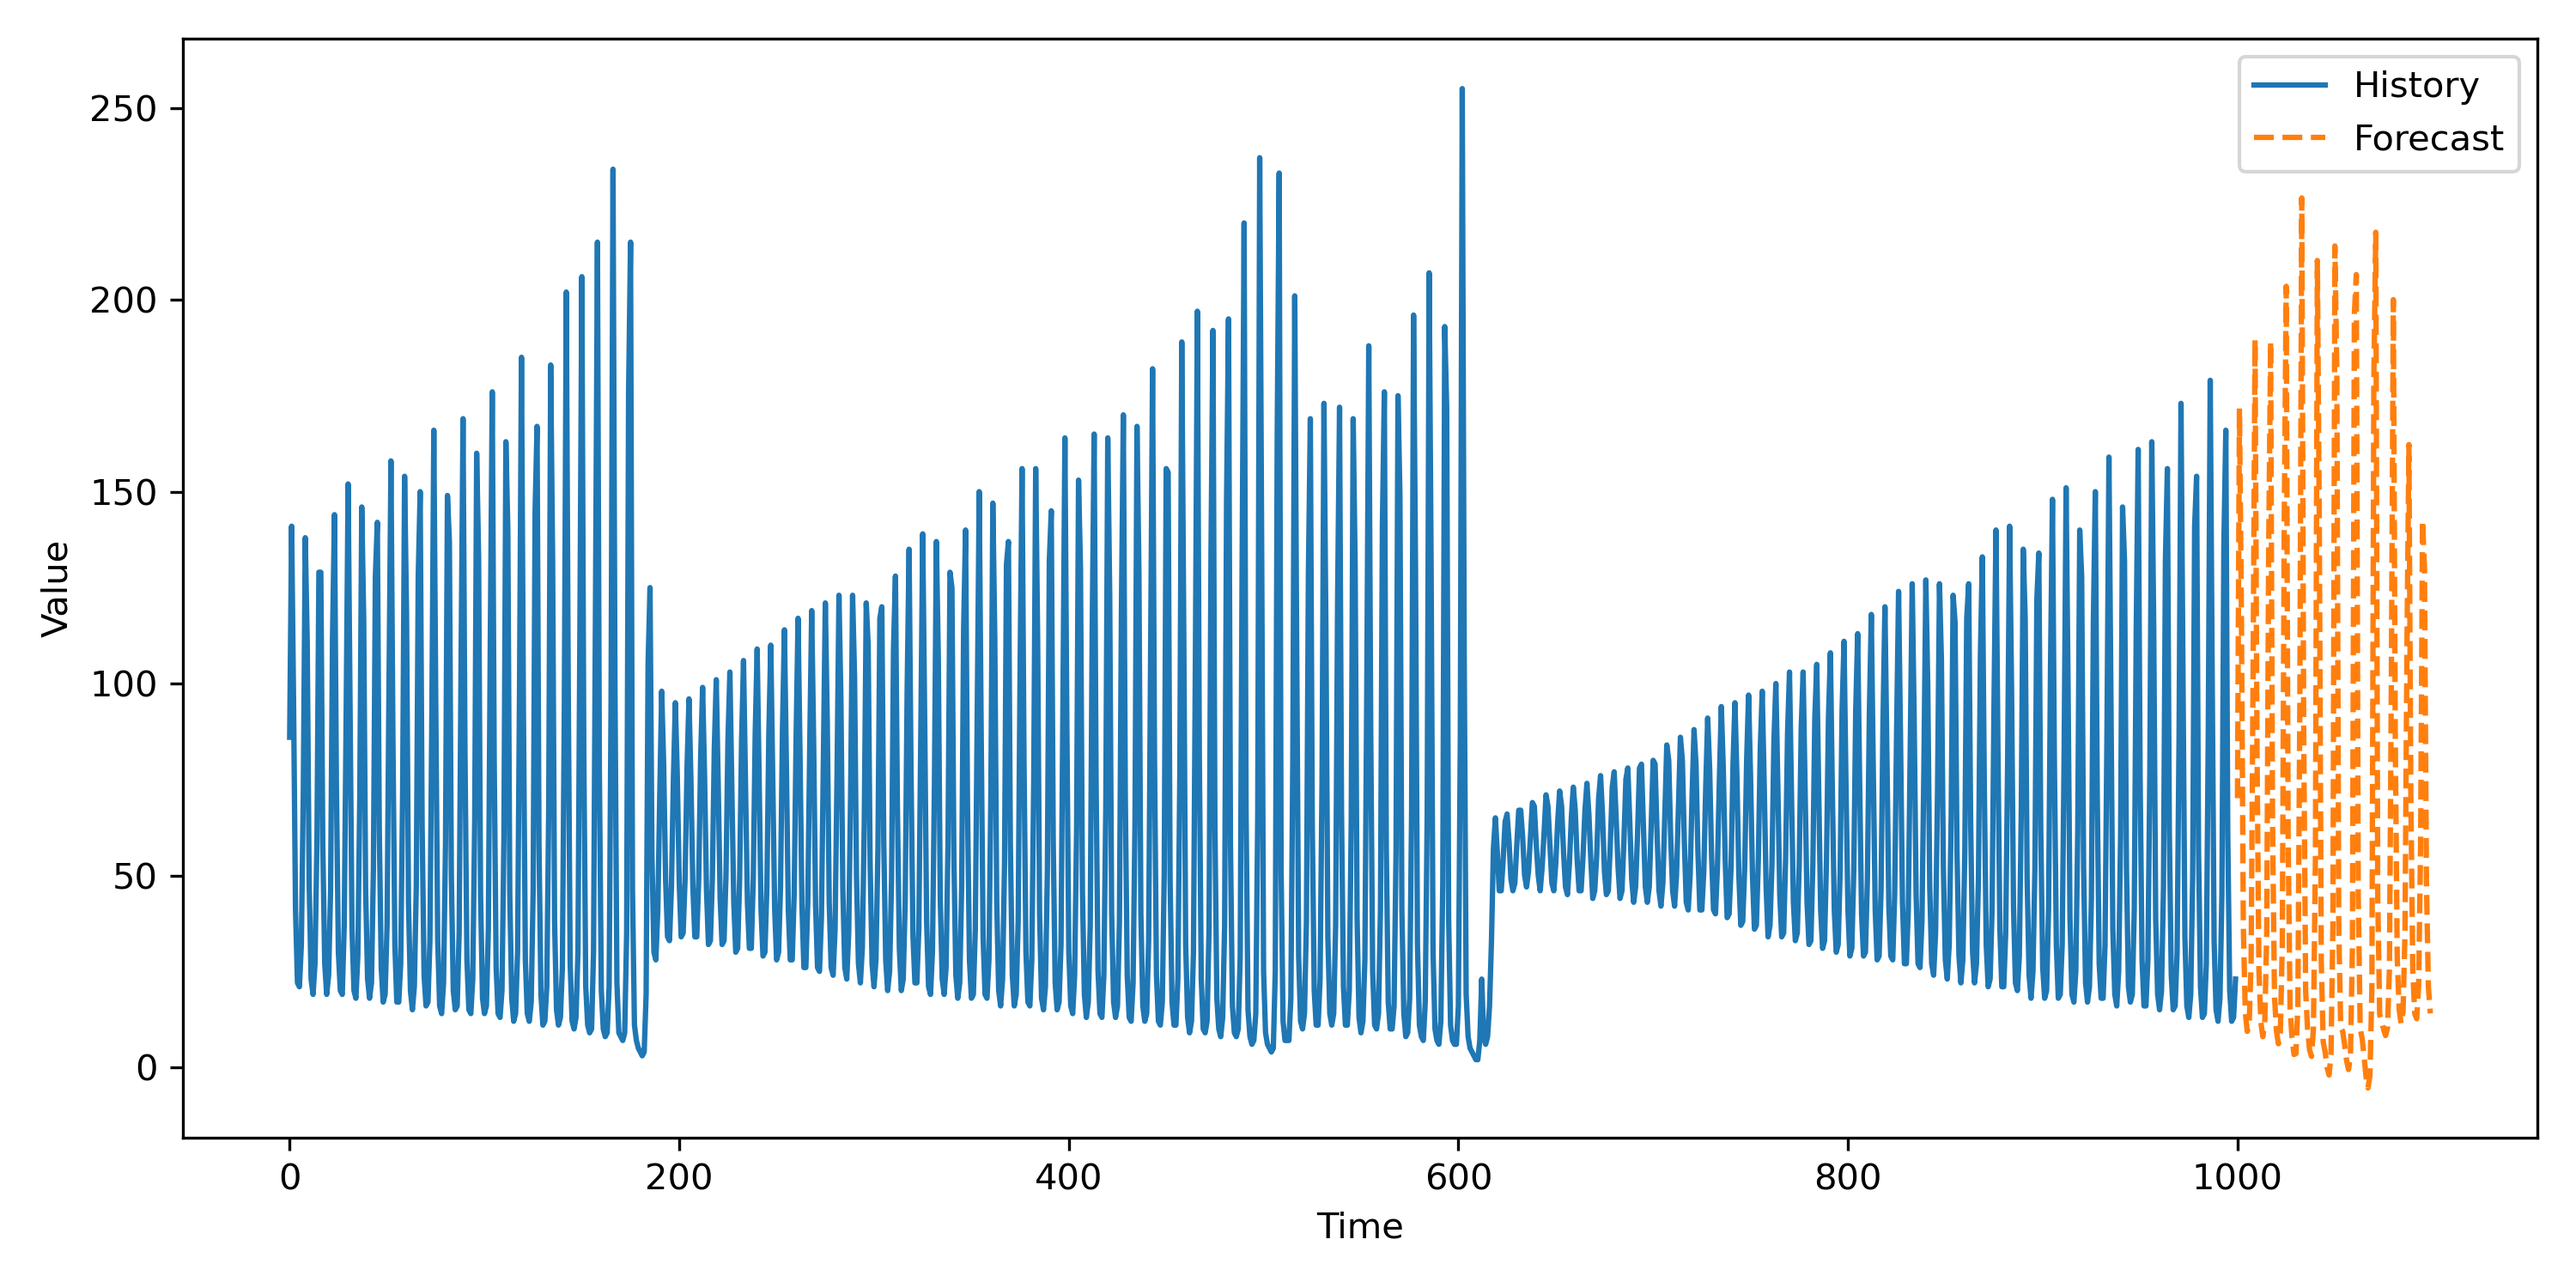
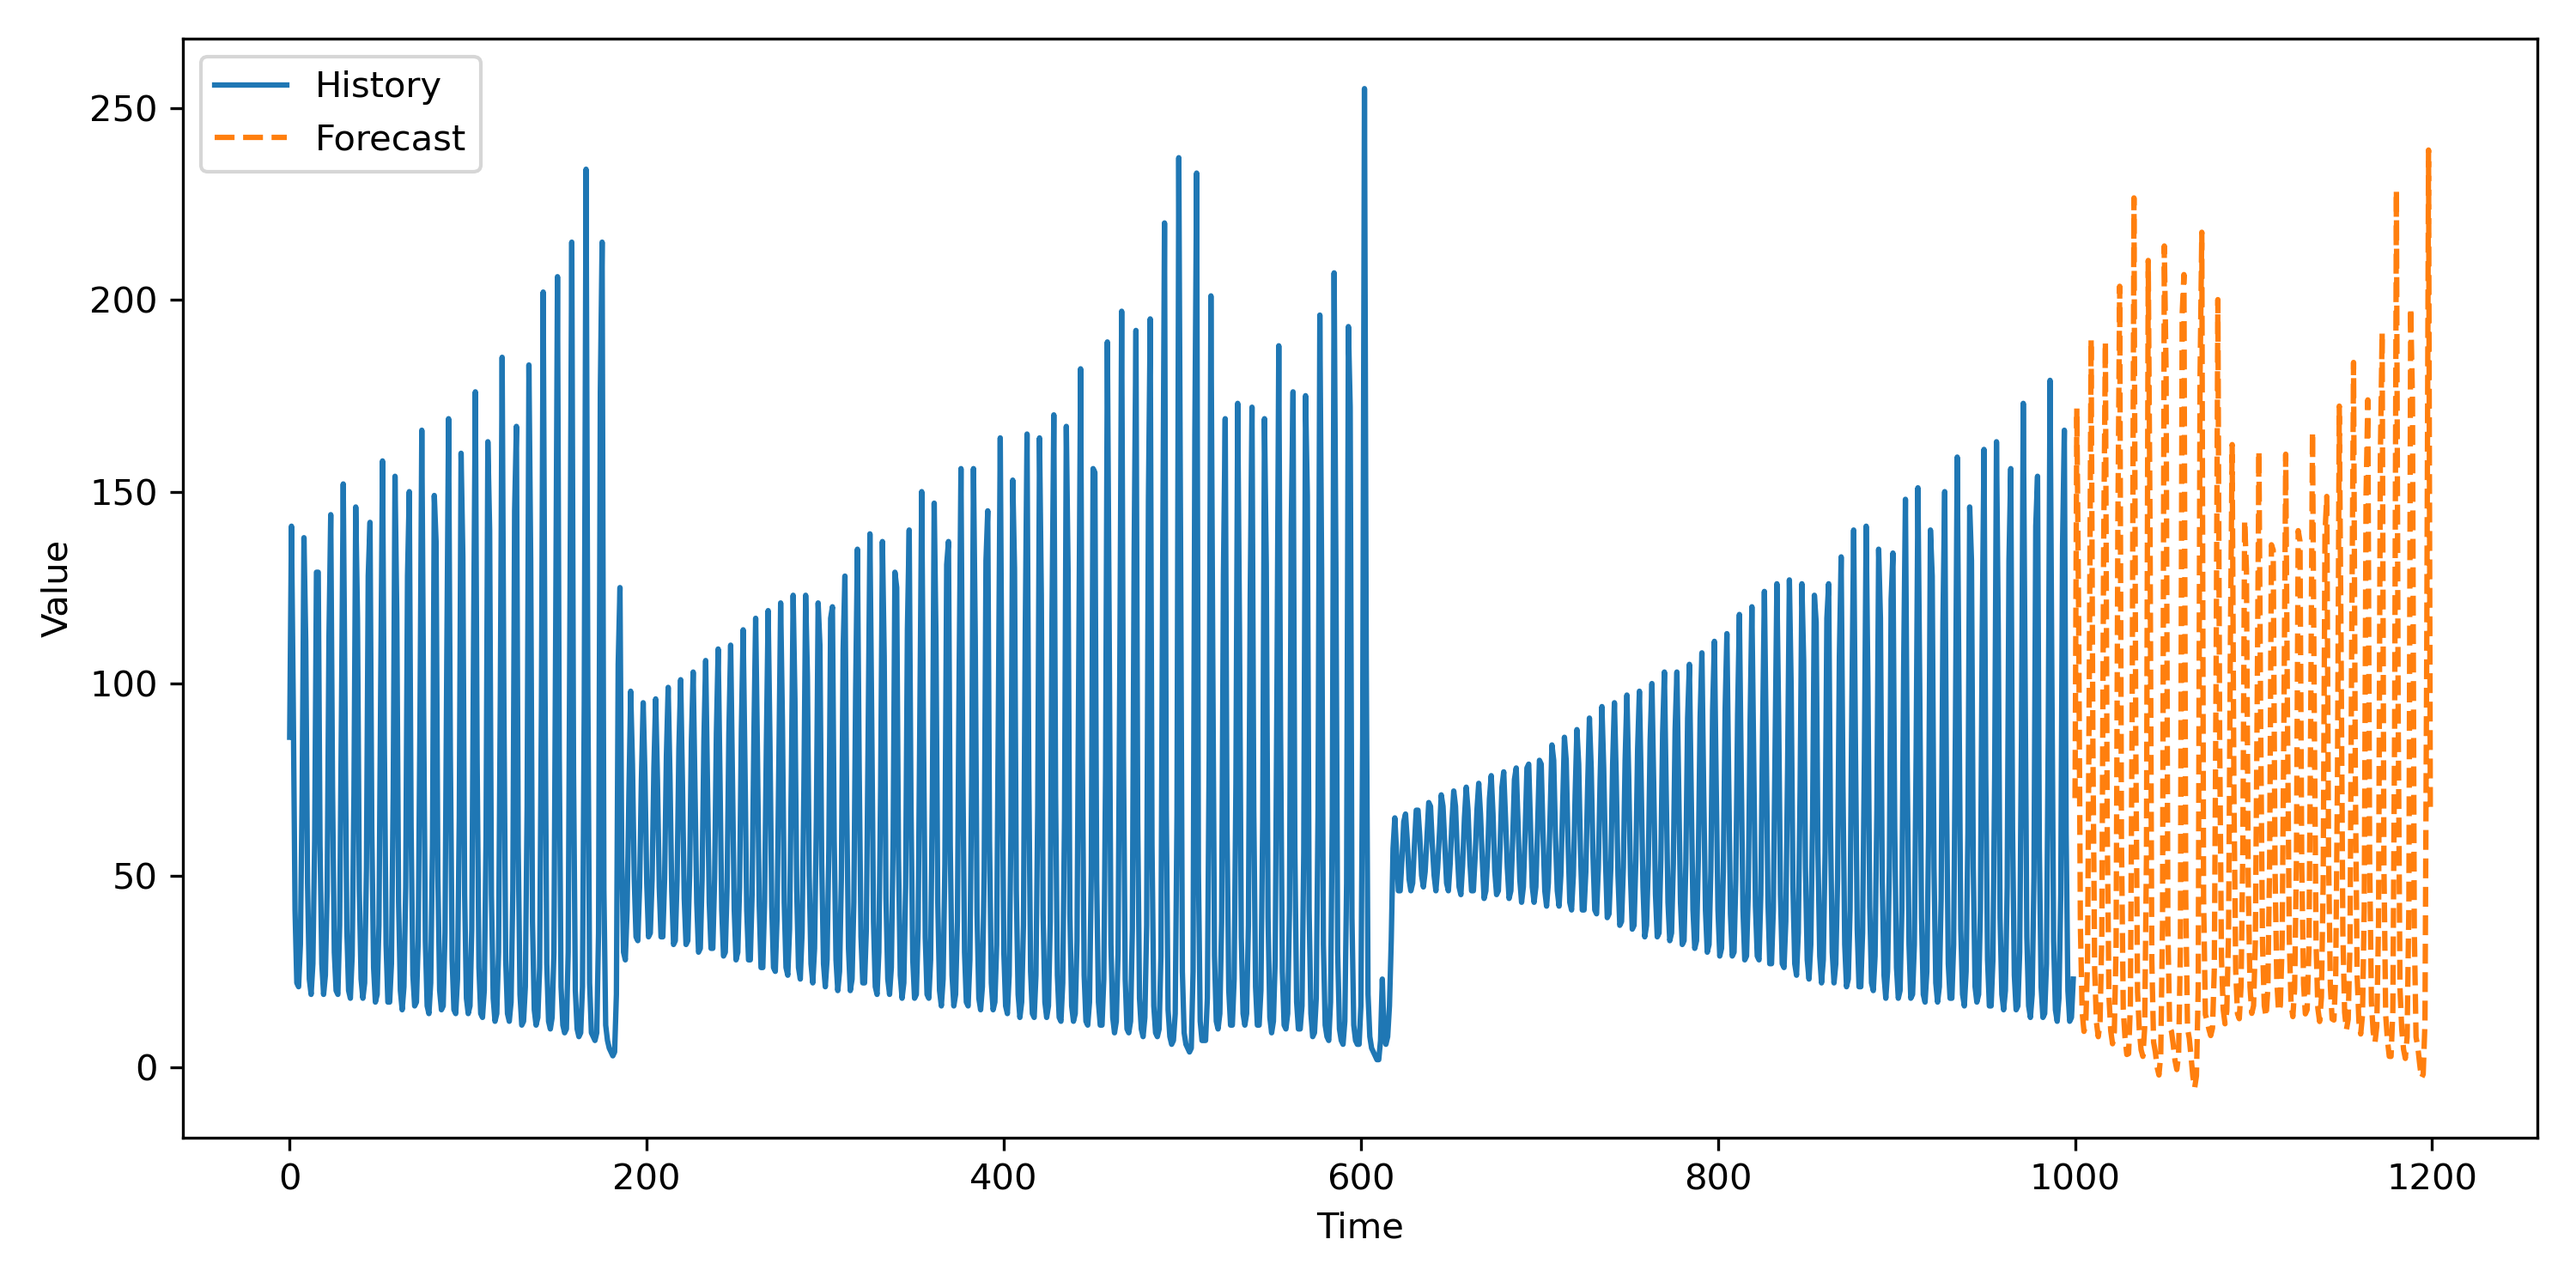
Update forecast horizon in evaluation script and modify forecast visualization image
- Changed the default forecast horizon from 100 to 200 in `src/evaluate.py`.
- Updated the `forecast.png` image in the evaluation results directory.

diff --git a/src/evaluate.py b/src/evaluate.py
@@ -302,7 +302,7 @@ def parse_args() -> EvalConfig:
     p.add_argument('--scaler', type=Path, default=None, help='Scaler joblib file')
     p.add_argument('--hist-data', type=Path, default='data/Xtrain.mat', help='Historical data file')
     p.add_argument('--test-data', type=Path, default=None, help='Test data file')
-    p.add_argument('--n-steps', type=int, default=100, help='Forecast horizon')
+    p.add_argument('--n-steps', type=int, default=200, help='Forecast horizon')
     p.add_argument('--results-dir', type=Path, default=Path('eval_results'), help='Output directory')
     p.add_argument('--log-level', type=int, default=logging.INFO, help='Logging level')
     args = p.parse_args()
